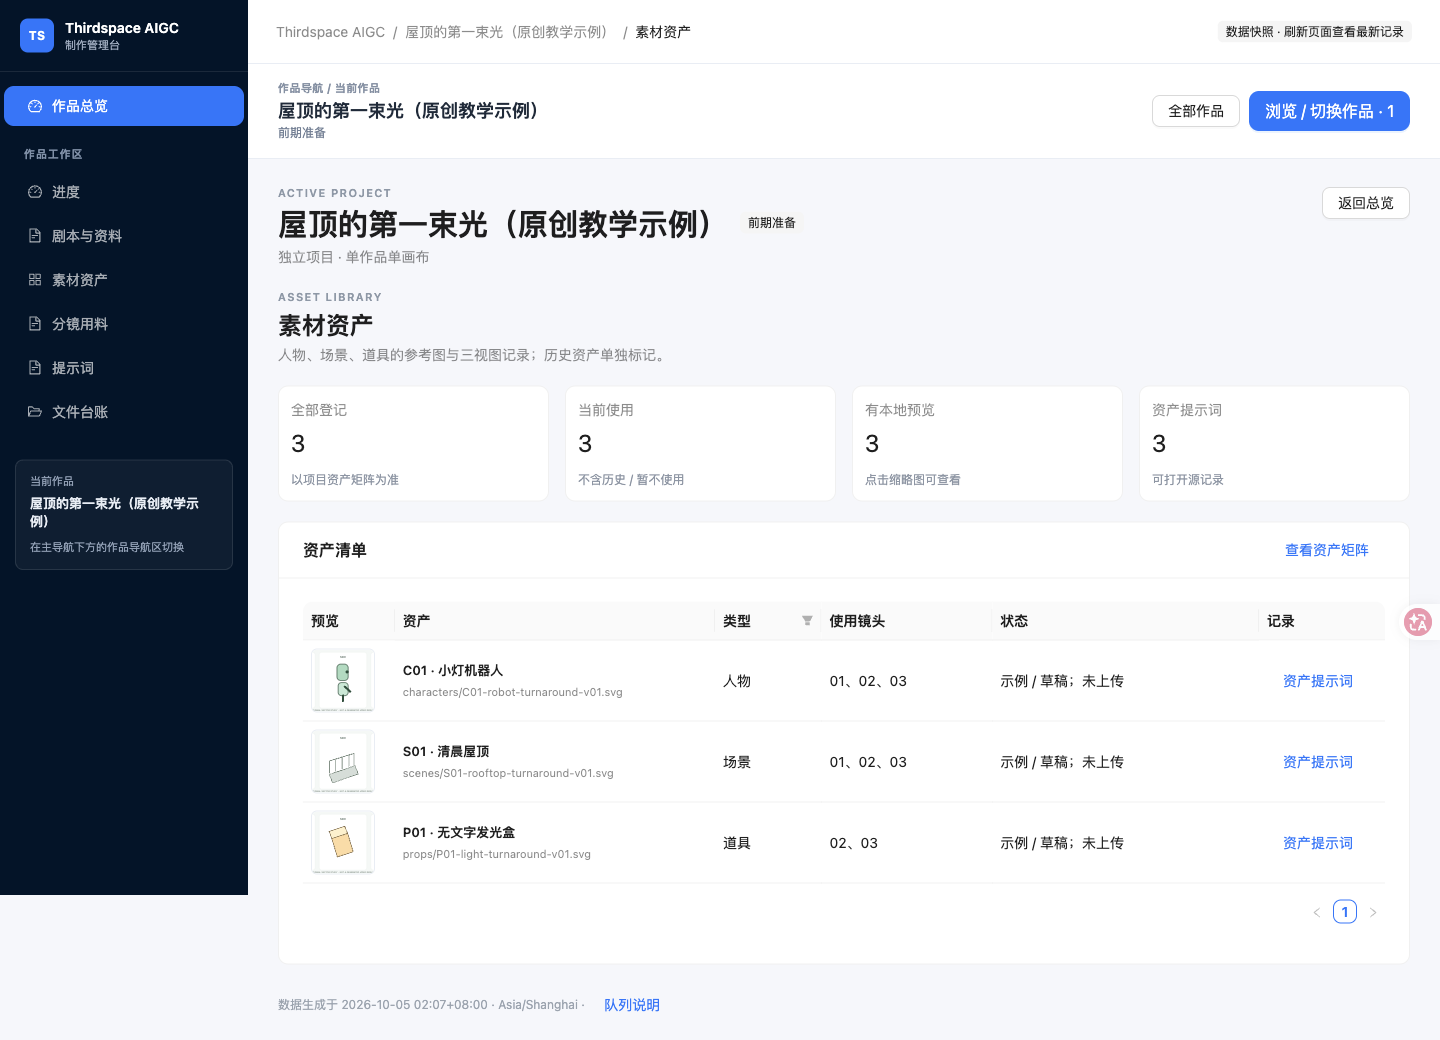
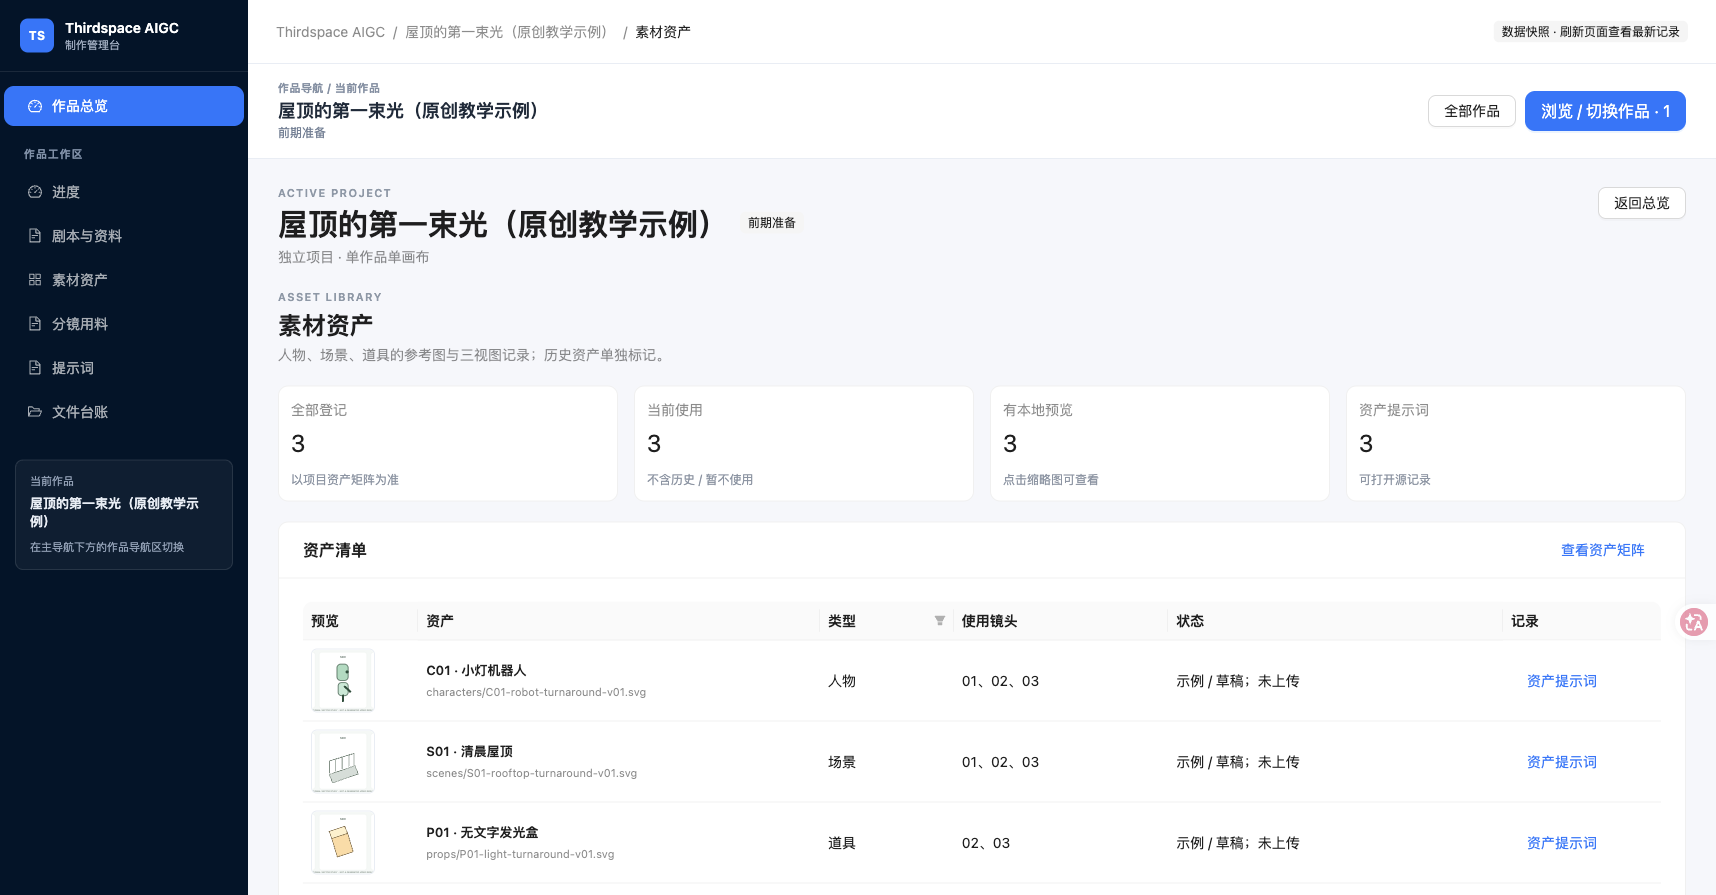
Preserve sample output directories in clones and await actual UI views

diff --git a/tests/test_records.py b/tests/test_records.py
@@ -156,6 +156,7 @@ class RecordsTests(unittest.TestCase):
 
     def test_registered_video_is_project_relative_and_playable_link_is_kept(self):
         path = self.project / 'generated/shots/01 my video.mp4'
+        path.parent.mkdir(parents=True, exist_ok=True)
         path.write_bytes(b'video fixture')
         self.modify('shot_audit.yaml', lambda d: d['records'][0].update(state='generated', video='generated/shots/01 my video.mp4'))
         with patch.object(build_board, 'ROOT', self.root), patch.object(build_board, 'PROJECTS', self.root / 'projects'):
